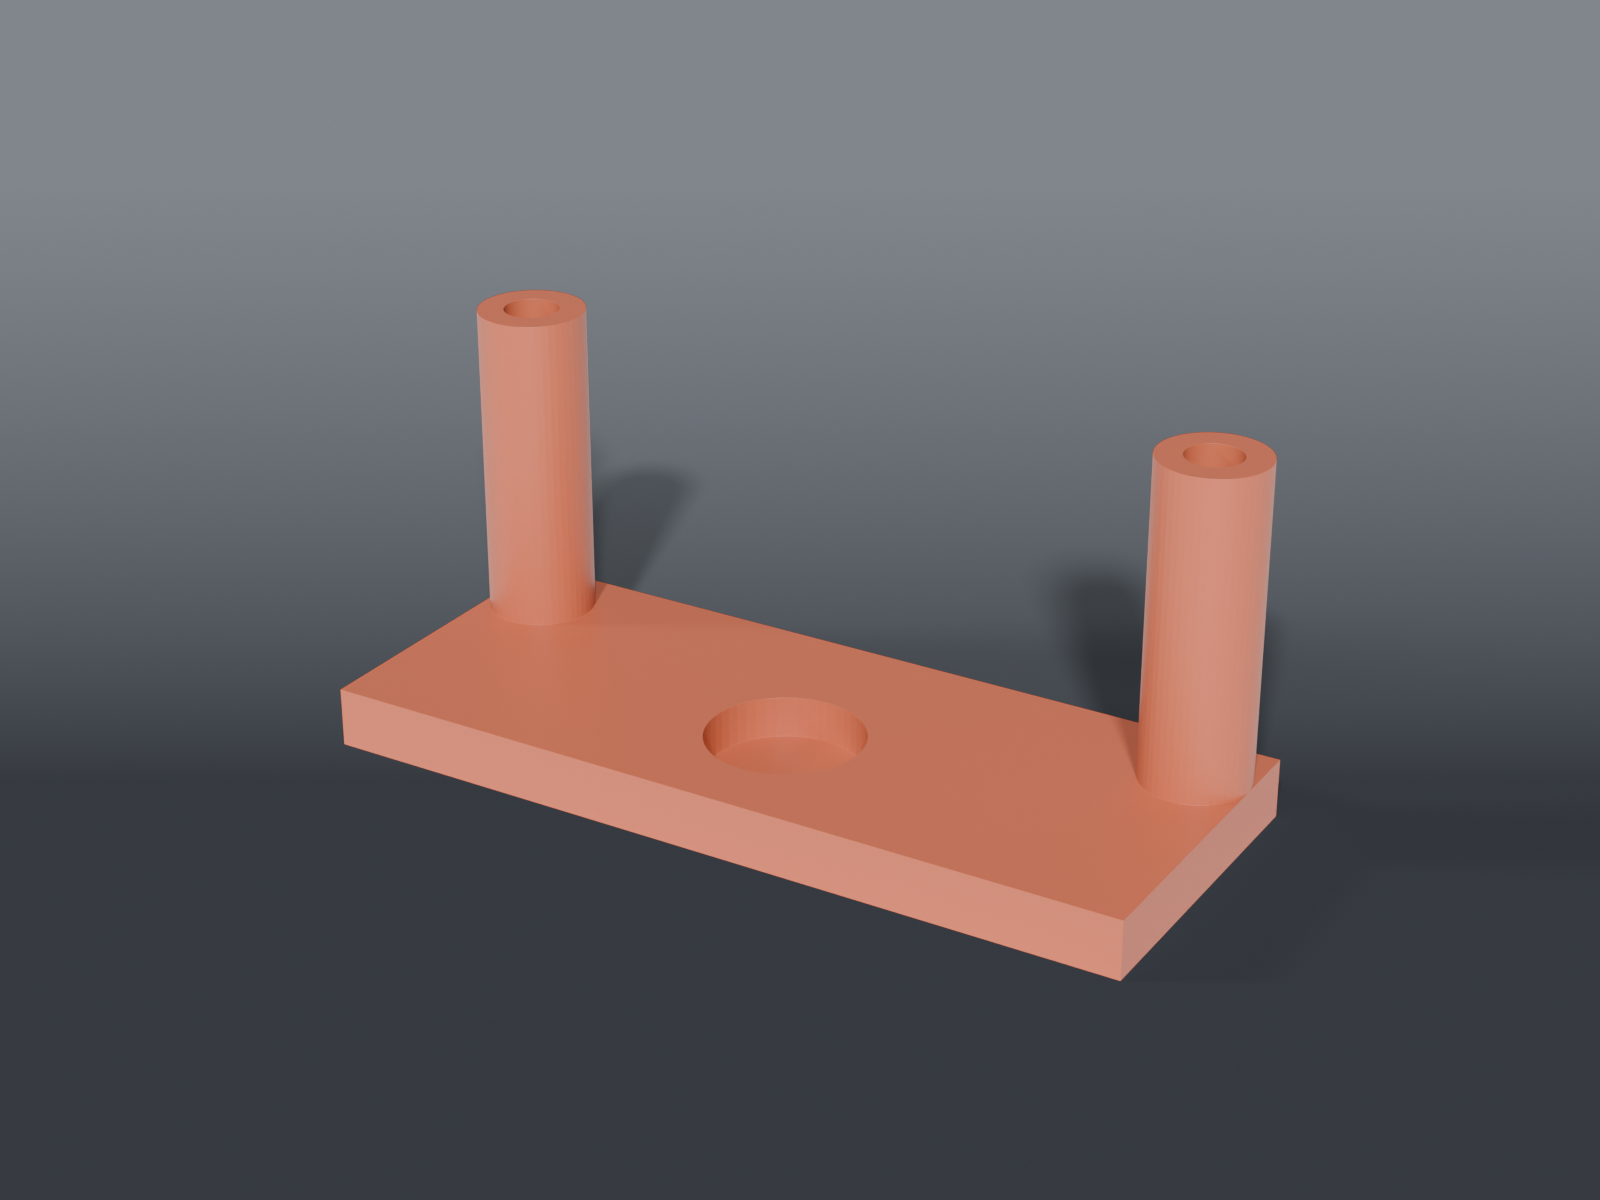
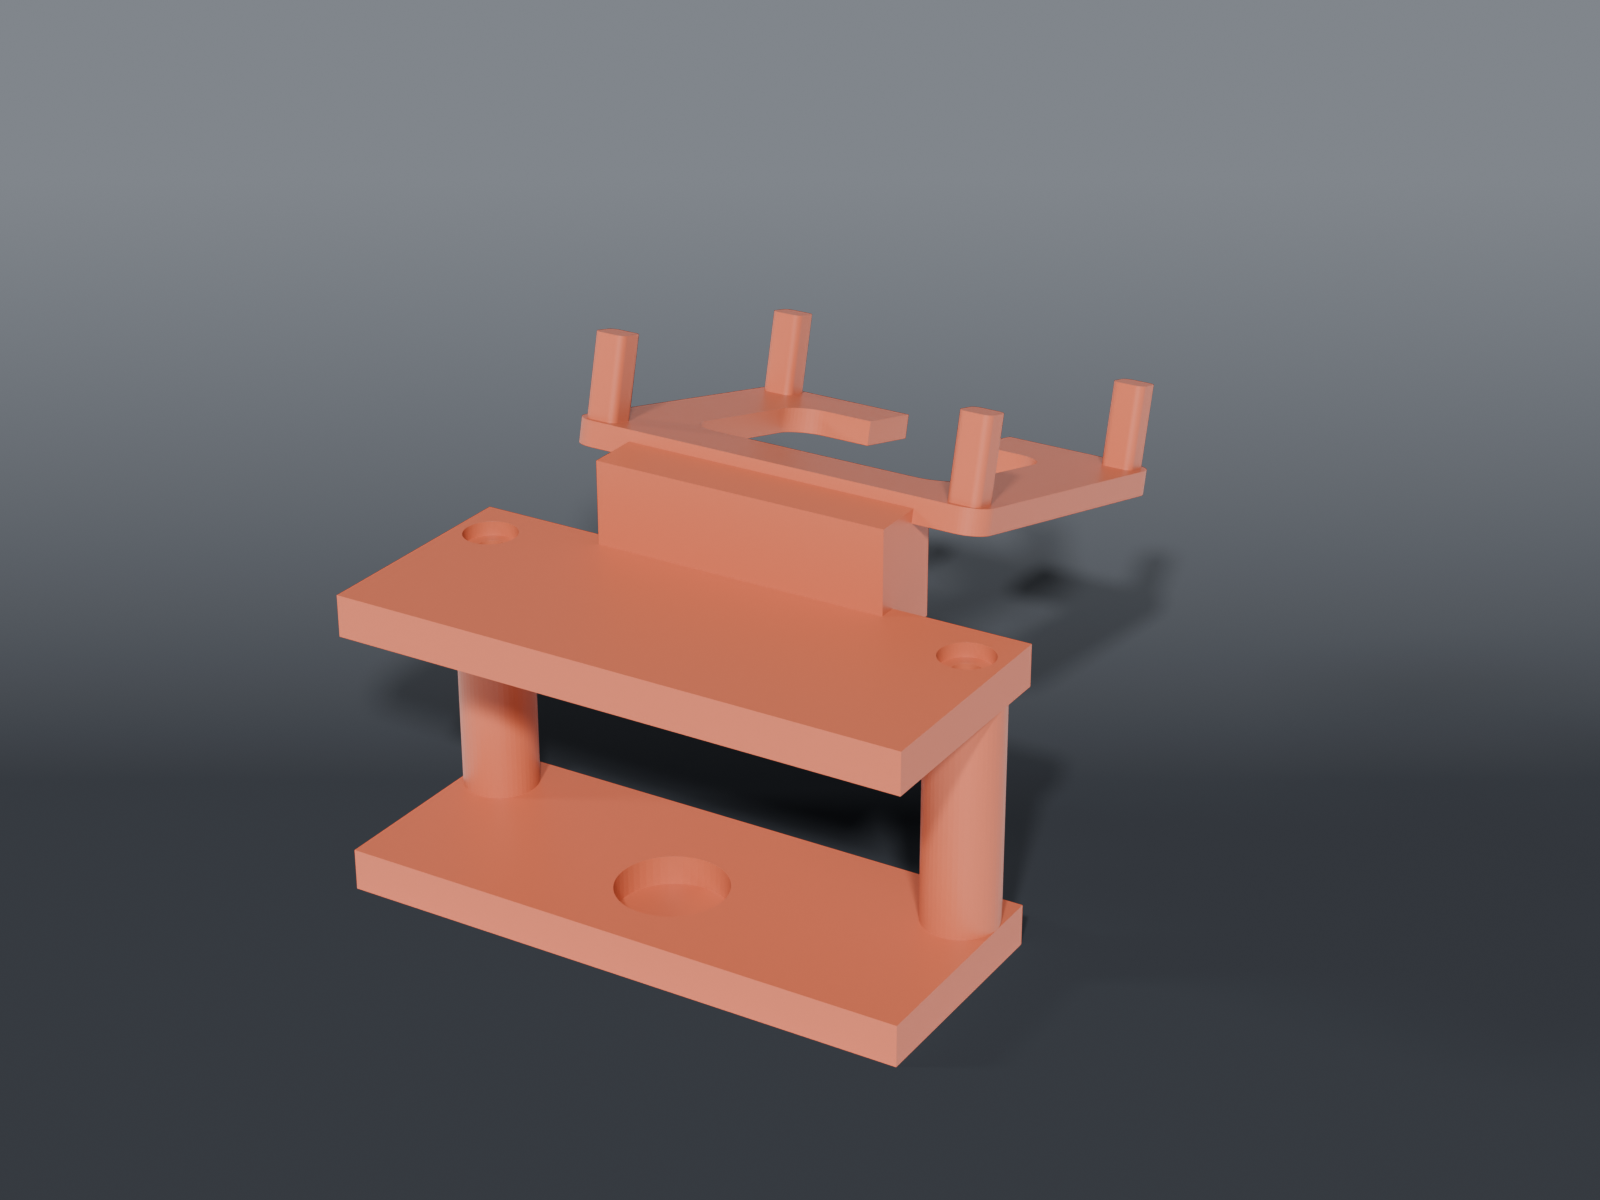
feat(thermal-cam-mount): flat camera tray on the tab clamp, cable exits outboard

Changed region(s): [[0.1875, 0.2158, 0.8125, 0.8942]]

diff --git a/thermal-cam-mount/README.md b/thermal-cam-mount/README.md
@@ -2,8 +2,9 @@
 
 ![Thermal cam mount](preview.png)
 
-A two-part sandwich clamp that holds a **Sipeed T256s thermal camera** on the LED-56S ring
-light's control-box tab, aimed down at the board.
+A two-part sandwich clamp on the LED-56S ring light's **control-box tab** (49.65 × 32.51 × 26.42),
+carrying an **open tray** that a **Sipeed T256s** lies flat in, looking straight down at the board
+through a window.
 
 The T256s is registered onto the scope's visible feed so a hot component's bloom labels that
 component. That registration transform is computed once and has to **hold between sessions** — so
@@ -14,8 +15,8 @@ the calibration.
 
 | File | What | Size |
 |---|---|---|
-| `mount_bottom.scad` | bottom plate + cam cradle | 70.05 × 28.0 × 31.7 mm |
-| `mount_top.scad` | top plate, counterbored | 70.05 × 57.9 × 32.3 mm |
+| `mount_bottom.scad` | bottom plate + bosses | 70.05 × 28.0 × 31.7 mm |
+| `mount_top.scad` | top plate + web + camera tray | 70.05 × 78.3 × 25.9 mm |
 
 Two M3 screws into heat-set inserts draw the plates together. Shared dimensions live in
 `thermal_cam_mount_common.scad`.
@@ -40,6 +41,60 @@ The long top-and-bottom grip is the moment arm that resists the camera's weight 
 thing nose-down. The bottom plate carries a pocket for the tab's centre screw.
 
 Tab measured 2026-07-23: **49.65 W × 32.51 front-to-back × 26.42 thick**.
+
+## The camera lies flat in a tray
+
+Modelled on the reference design the user supplied (*Thermal Camera Mount type 3 v3.2*): open tray,
+round lens window, corner posts, shallow tilt. That reference **glues** to the ring; this clamps the
+control-box tab instead, which is the half that already worked.
+
+**This is what fixes the cable.** The old cradle stood the camera upright and tilted it 60°, which
+aimed its top edge — where the male plug and the live cable are — at (0, −0.87, +0.50): up and
+*inward*, straight at the objective. The cord crossed in front of the scope and made it unusable.
+
+Lying flat, the plug edge points sideways, and **which** sideways is a free choice. It's set
+**outboard**, away from the optical axis, and the tray's outboard border is notched so the plug and
+lead drop clear.
+
+| | |
+|---|---|
+| Tray tilt | **14°** — the reference's 14.1°, rounded |
+| Lens window | 34 × 26 rounded rect |
+| Posts | 4 × 4 mm, 10 mm tall, at the pocket corners |
+| Plug notch | 14 mm, outboard border |
+
+⚠ **The window is deliberately oversize.** The notes record the thermal lens as "offset toward
+LEFT" and that offset has never been measured. A window cut to a guessed centre would blind the
+camera, and no mesh check catches a part that's the right shape over the wrong spot. 34 × 26 in a
+42 × 35 body leaves a 4 mm border all round and clears the optic wherever it sits.
+
+## Why the tray reaches 26 mm out
+
+`ARM_FWD` is 26, not the old cradle's 19.5. At 19.5 the **bottom clamp plate** clipped the innermost
+3.8 mm of the lens window about 35 mm down — the camera couldn't see the part of the board nearest
+the objective, which is the only part worth seeing.
+
+Swept against the real sight line: blocked at 19.5 and 22, clear from 24. 26 leaves 2 mm of margin.
+Flattening the tilt to 8° also clears it, but that aims the lens nearer straight down and gives up
+inward coverage. Reaching further out costs 6.5 mm of offset against a 175 mm field — nothing.
+
+## The arm is a plain web, and that took five tries
+
+Every attempt to `hull()` onto the tilted tray produced a different degeneracy on OpenSCAD 2021.01:
+
+| Attempt | Result |
+|---|---|
+| Square patch, tray-sized | corners proud of the rounded outline — 4 non-manifold edges |
+| Patch matching the outline exactly | hull arrives **tangent** to the tray's side walls — 10 edges |
+| Patch butted on the tray's underside | three faces on one line — 2 edges |
+| Patch pushed inside the tray | zero-length edge |
+| Hull of two solid blocks | 4 edges |
+
+Bisection put it on the arm-to-tray join every time — tray alone passed, arm alone passed, together
+they failed, with or without the posts and the window.
+
+A plain box has flat faces. Where it meets the tilted tray, two planes cross at 14° — an honest
+intersection with nothing coincident, coplanar or tangent. It passes.
 
 ## The cradle rides above the plate, not below
 
